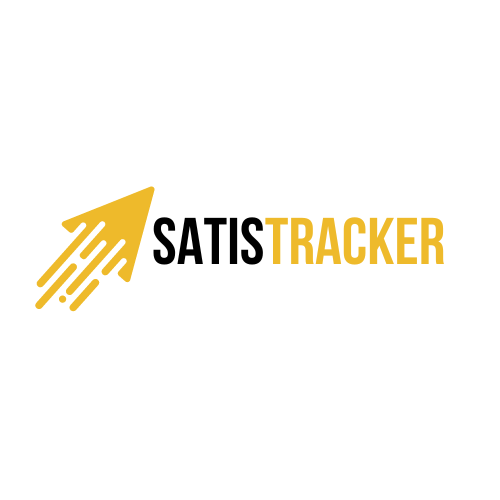
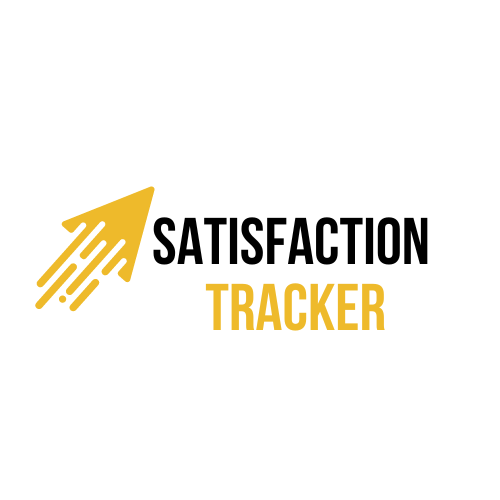
Mudei o nome do sistema.

Changed region(s): [[0.39, 0.42, 0.9, 0.66]]

diff --git a/config/adminlte.php b/config/adminlte.php
@@ -14,7 +14,7 @@ return [
     |
     */
 
-    'title' => 'SatisTracker',
+    'title' => 'SatisfactionTracker',
     'title_prefix' => '',
     'title_postfix' => '',
 
@@ -63,7 +63,7 @@ return [
     |
     */
 
-    'logo' => '<b>Satis</b> Tracker',
+    'logo' => '<b>Satisfaction</b> Tracker',
     'logo_img' => 'img/logo.png',
     'logo_img_class' => 'brand-image img-circle elevation-3',
     'logo_img_xl' => null,
